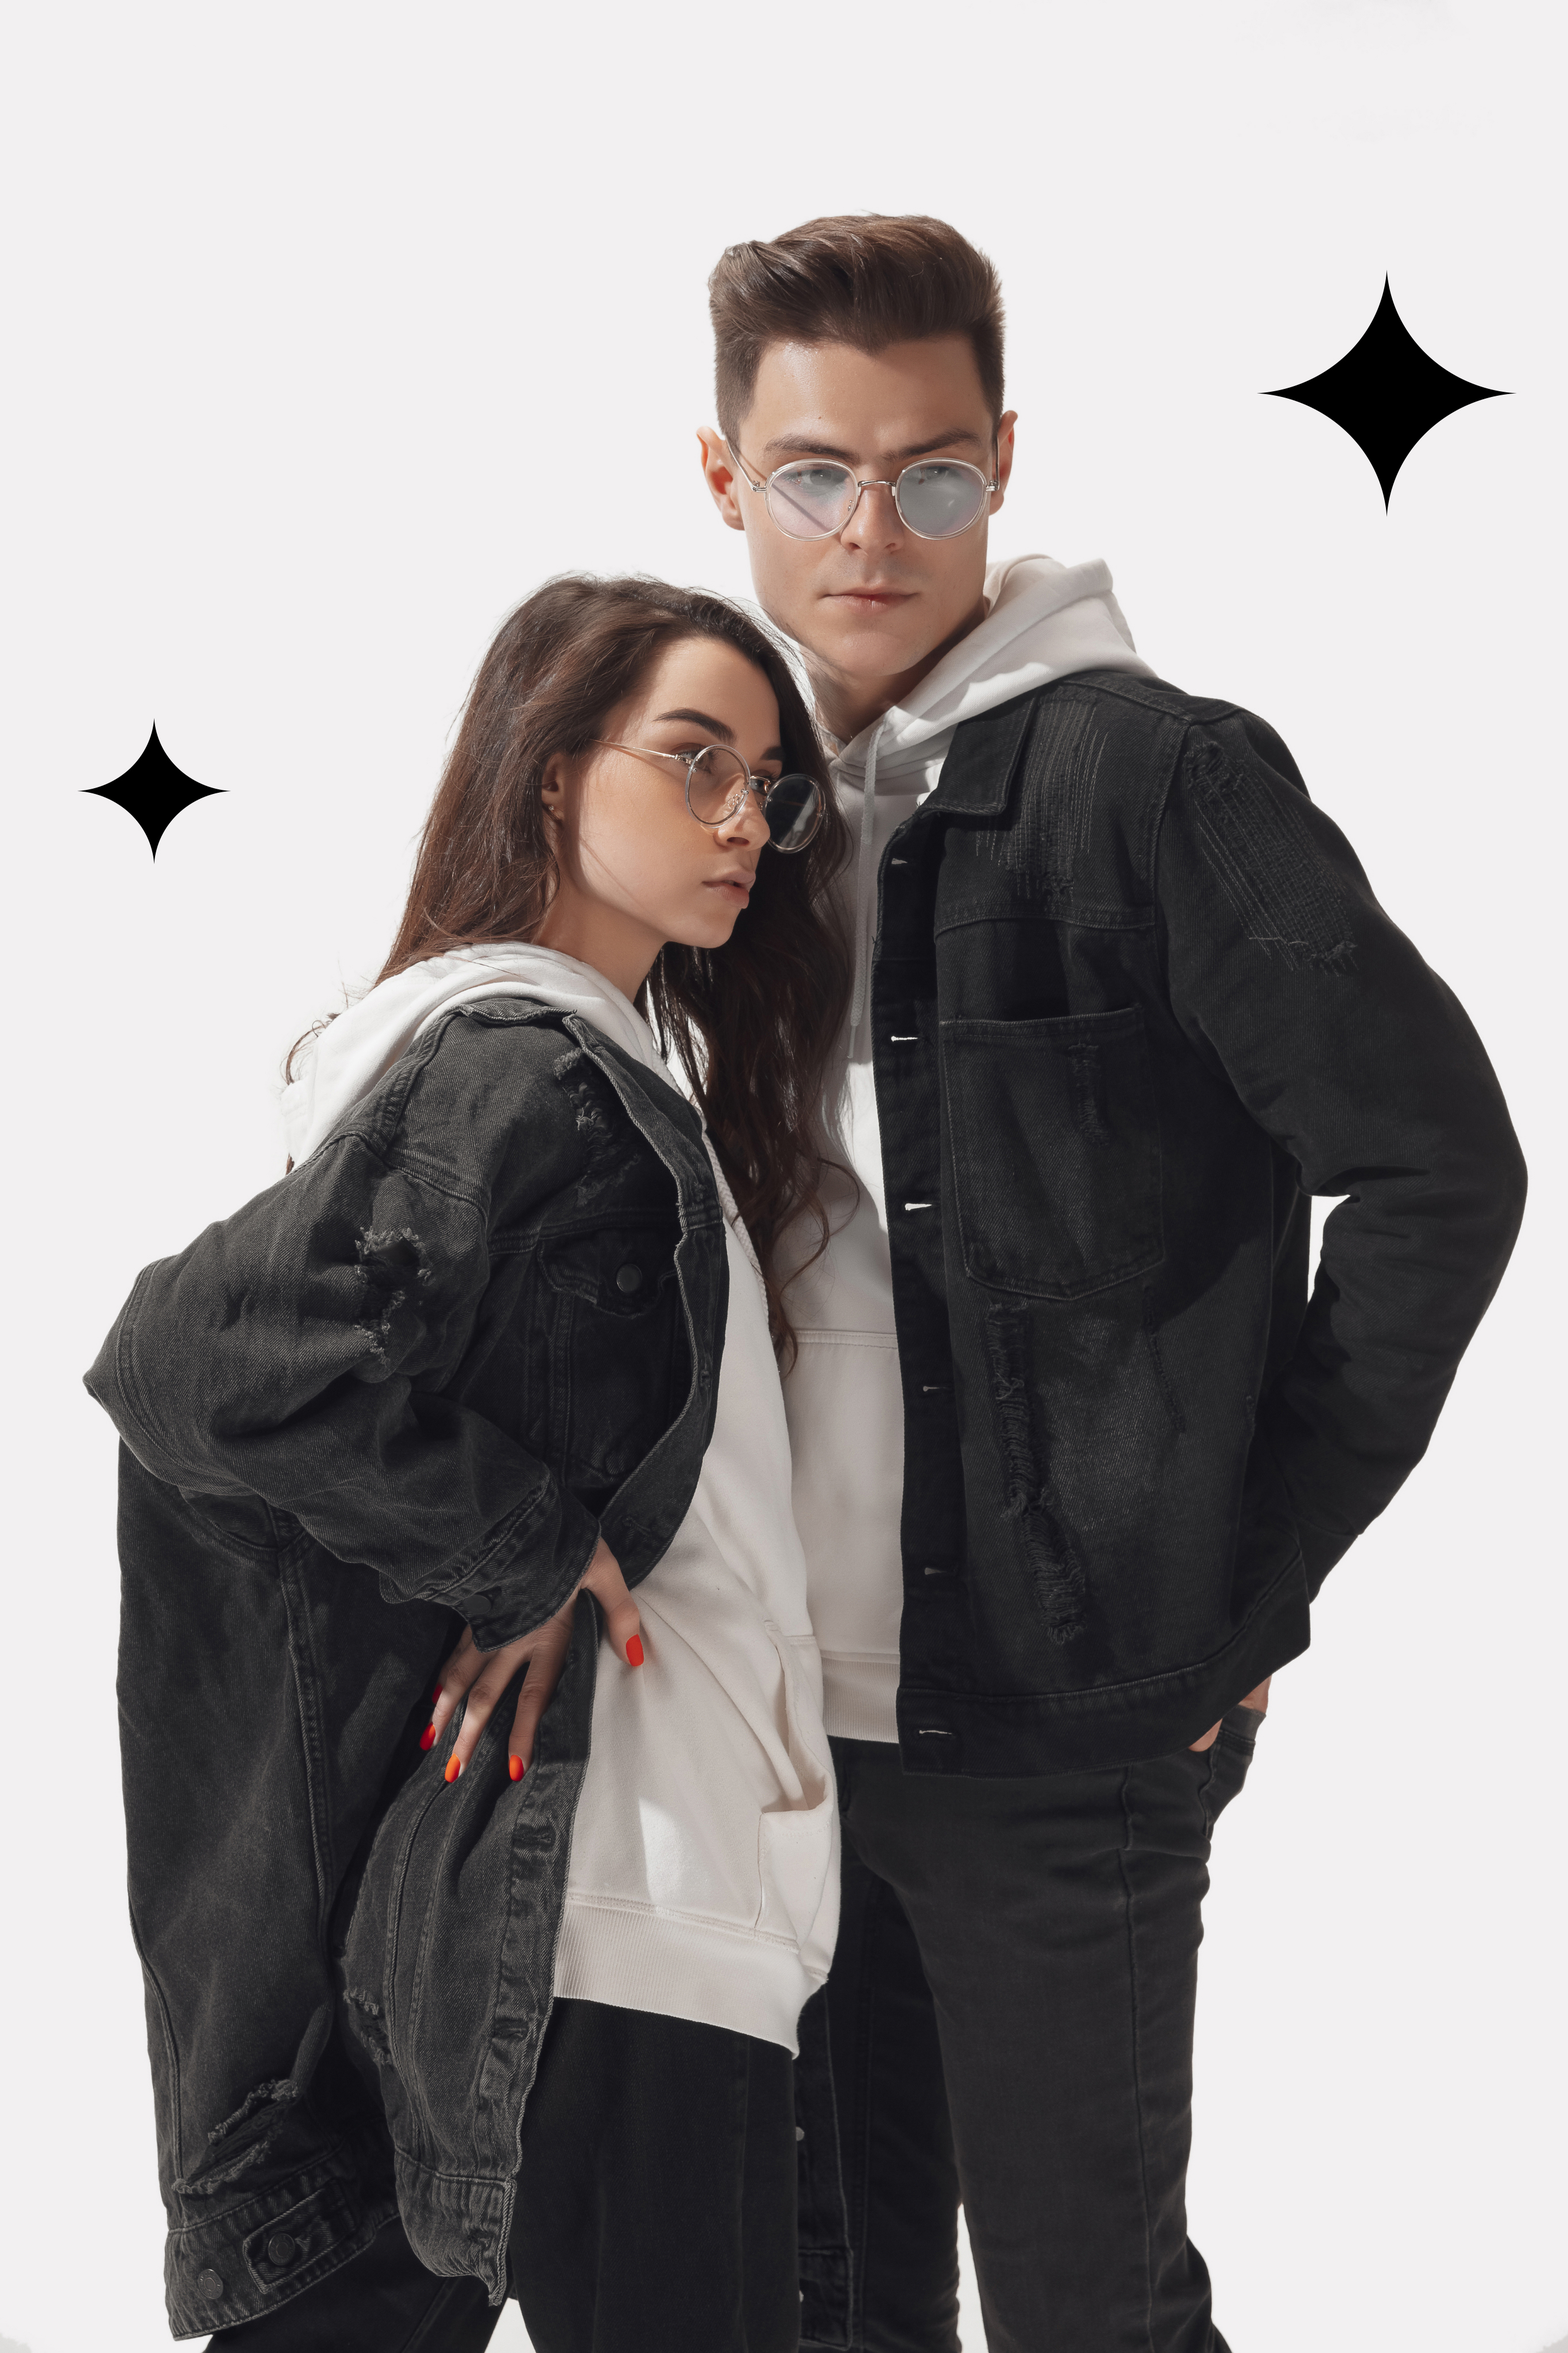
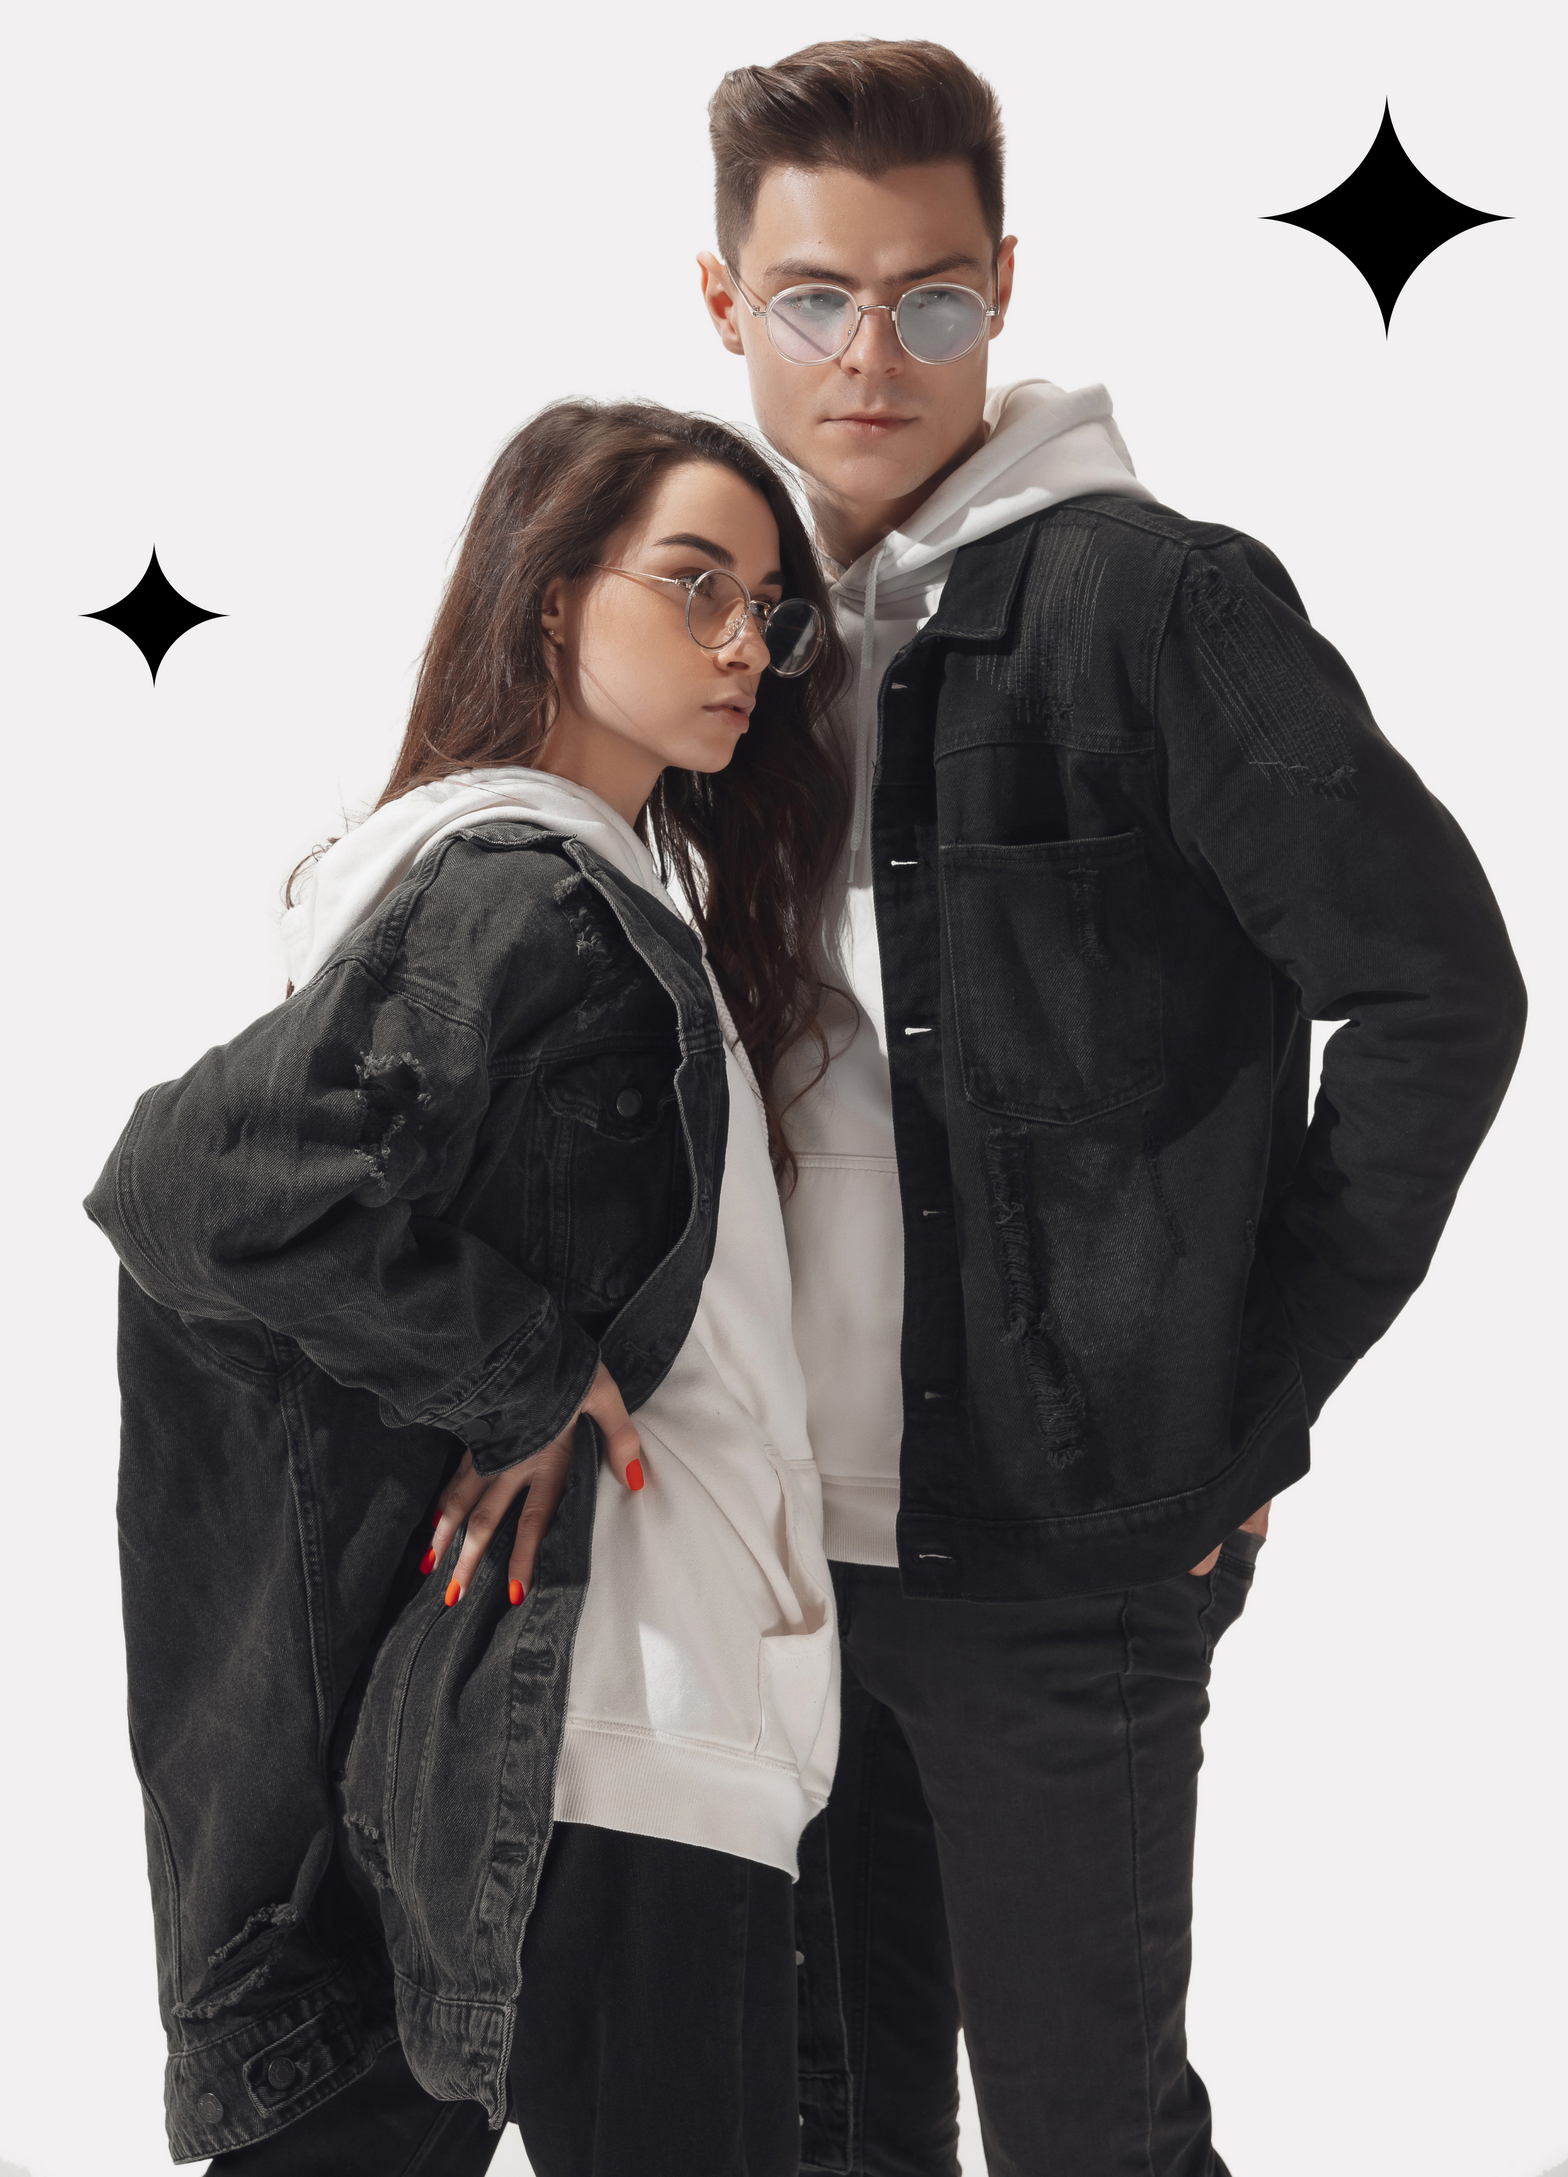
Improve hero image positioning

diff --git a/styles/style.css b/styles/style.css
@@ -116,7 +116,7 @@ nav {
         width: 100%;
         height: 100%;
         object-fit: cover;
-        object-position: 50% 20%;
+        object-position: top left;
         display: block;
     }
 }
@@ -292,7 +292,7 @@ h2 {
         height: 100%;
         width: 100%;
         object-fit: cover;
-        object-position: 50% 30%;
+        object-position: top left;
         border-radius: 20px;
     }
     div {
